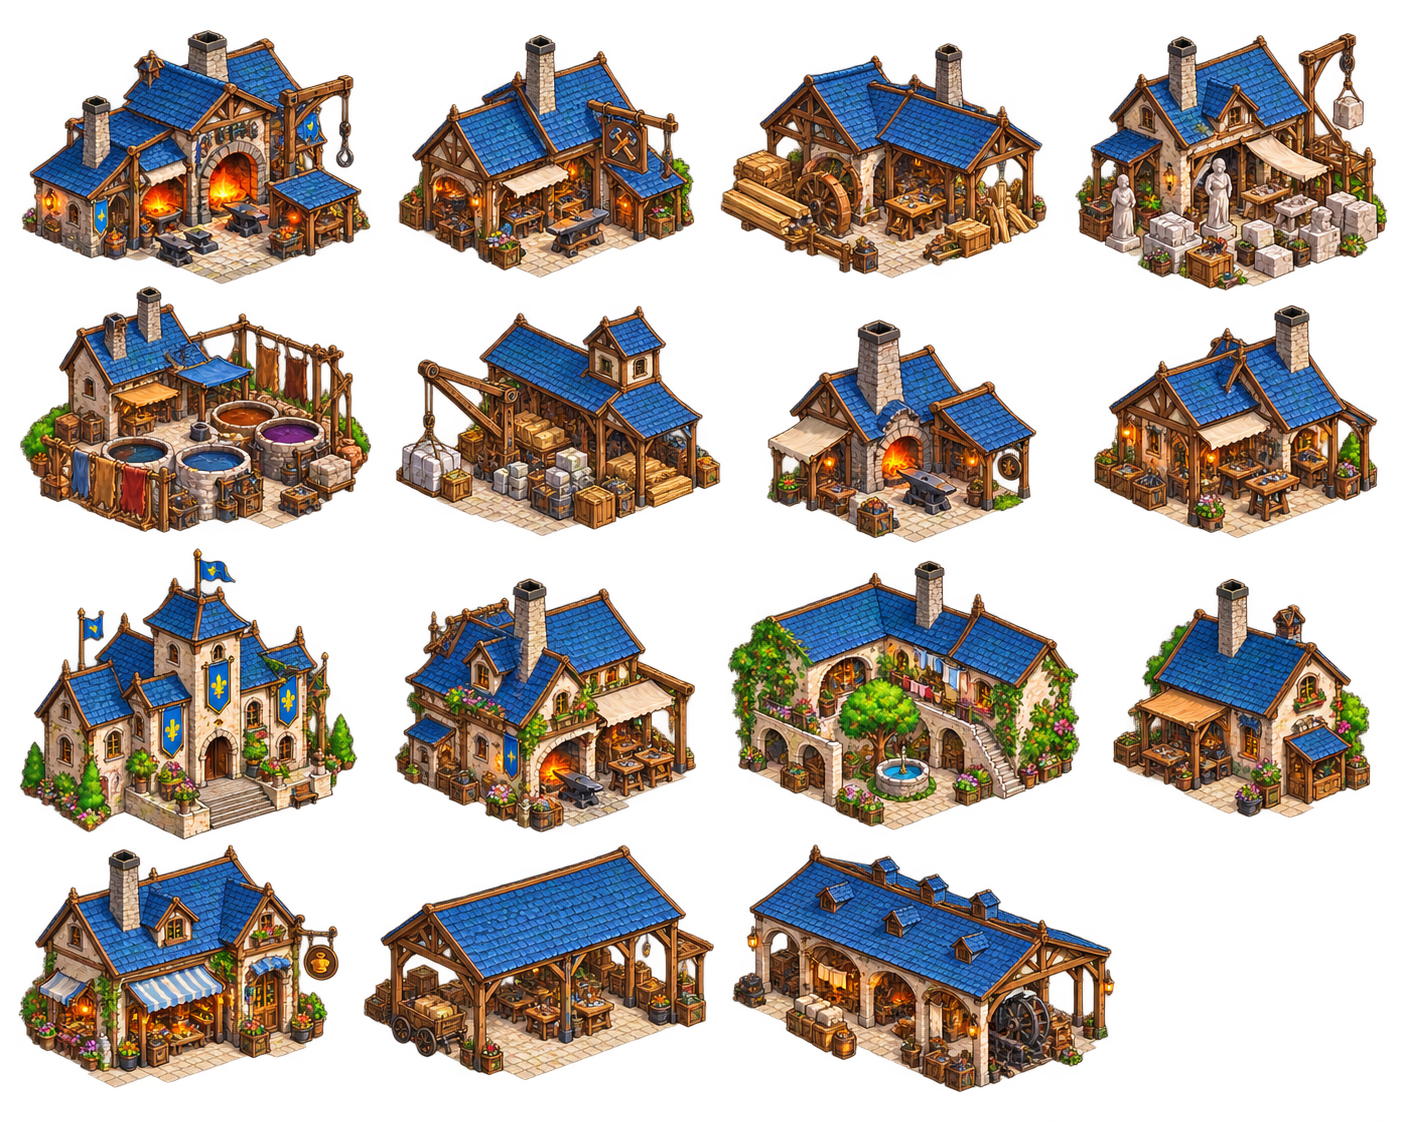
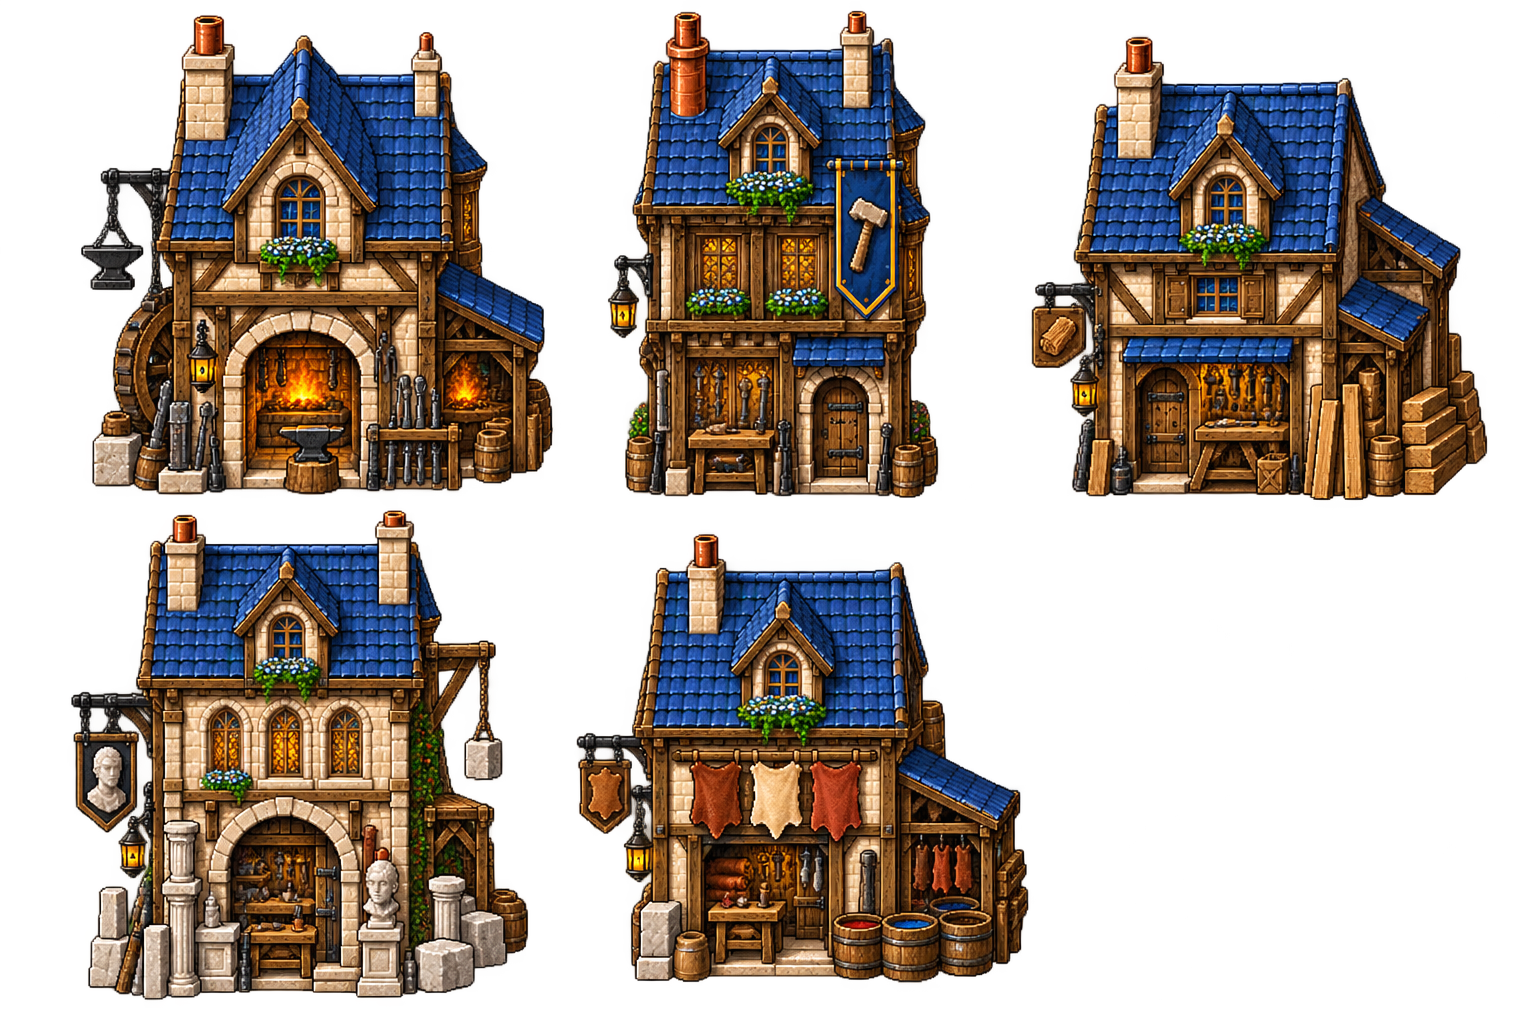
Redraw artisan buildings as crisp front-facing facades matching existing assets

diff --git a/tests/map-editor.test.js b/tests/map-editor.test.js
@@ -136,21 +136,34 @@ test("Les quinze bâtiments d’artisans sont séparés, disponibles en palette 
   assert.equal(ARTISAN_BUILDINGS.length, 15);
   for (const template of ARTISAN_BUILDINGS) {
     assert.ok(palette.some((p) => p.id === template.id));
-    assert.ok(artisanFrames[2].frames[template.asset]);
+    assert.ok(
+      artisanFrames.slice(2).some((bank) => bank.frames[template.asset]),
+    );
     assert.ok(!defaultMap.objects.some((p) => p.id === template.id));
+    const frame = artisanFrames
+      .slice(2)
+      .map((bank) => bank.frames[template.asset])
+      .find(Boolean);
+    assert.ok(
+      frame.h >= 400,
+      "Définition verticale comparable aux maisons existantes",
+    );
+    assert.ok(template.footprintDepth > 0 && template.footprintDepth <= 52);
   }
-  const frames = Object.values(artisanFrames[2].frames);
-  for (let i = 0; i < frames.length; i++)
-    for (let j = i + 1; j < frames.length; j++) {
-      const a = frames[i],
-        b = frames[j];
-      assert.ok(
-        a.x + a.w <= b.x ||
-          b.x + b.w <= a.x ||
-          a.y + a.h <= b.y ||
-          b.y + b.h <= a.y,
-      );
-    }
+  for (const bank of artisanFrames.slice(2)) {
+    const frames = Object.values(bank.frames);
+    for (let i = 0; i < frames.length; i++)
+      for (let j = i + 1; j < frames.length; j++) {
+        const a = frames[i],
+          b = frames[j];
+        assert.ok(
+          a.x + a.w <= b.x ||
+            b.x + b.w <= a.x ||
+            a.y + a.h <= b.y ||
+            b.y + b.h <= a.y,
+        );
+      }
+  }
   const doc = copy(defaultMap);
   doc.objects.push({
     id: "atelier-test",

diff --git a/src/rendering/exile-port-assets.js b/src/rendering/exile-port-assets.js
@@ -14,6 +14,16 @@ const banks = [
     url: new URL("../assets/exile/artisan-buildings.png", import.meta.url).href,
     frames: atlasFrames[2].frames,
   },
+  {
+    url: new URL("../assets/exile/artisan-buildings-2.png", import.meta.url)
+      .href,
+    frames: atlasFrames[3].frames,
+  },
+  {
+    url: new URL("../assets/exile/artisan-buildings-3.png", import.meta.url)
+      .href,
+    frames: atlasFrames[4].frames,
+  },
 ];
 let version = 0;
 const frames = {};

diff --git a/src/rendering/exile.js b/src/rendering/exile.js
@@ -572,6 +572,7 @@ export function createExileEnvironment(mapOverride = map) {
       const cg = canvas.getContext("2d"),
         anchorX = canvas.width / 2,
         anchorY = canvas.height - 10;
+      cg.imageSmoothingEnabled = false;
       cg.translate(anchorX, anchorY);
       if (p.kind === "exile-house") building(cg, p);
       else if (["exile-gate", "exile-city-gate"].includes(p.kind))

diff --git a/src/data/artisan-buildings.js b/src/data/artisan-buildings.js
@@ -13,7 +13,7 @@ export const ARTISAN_BUILDINGS = catalog.map((p) => ({
     type: "box",
     left: -p.w / 2,
     right: p.w / 2,
-    top: -Math.min(52, p.h * 0.5),
+    top: -p.footprintDepth,
     bottom: 0,
   },
 }));
